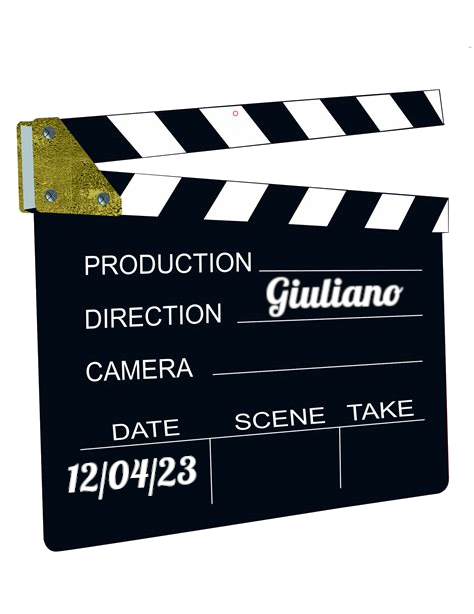
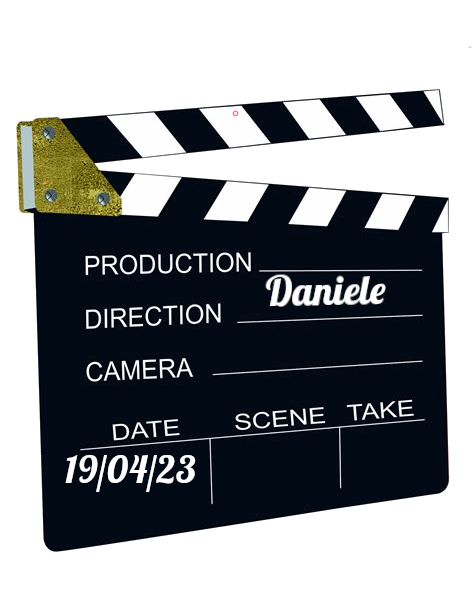
Chronicle - Stella cadente

Changed region(s): [[0.5612, 0.4332, 0.8565, 0.5261], [0.1181, 0.7427, 0.4135, 0.8355]]

diff --git a/index.html b/index.html
@@ -34,10 +34,10 @@
 
 <br /><br />
 
-<h1>Mercoled&igrave; 12 aprile 2023</h1>
+<h1>Mercoled&igrave; 19 aprile 2023</h1>
 <h2>Alle 20:30 in Via Nizza, 72</h2>
 <img src="img/ciak.png" class="locandina"/>
-<h2>Tema: <i>Stella cadente</i> - Selezionatore: <i>Giuliano</i></h2>
+<h2>Tema: <i>Triangolo</i> - Selezionatore: <i>Daniele</i></h2>
 
 <br /><br />
 
@@ -45,14 +45,14 @@
 
 <br /><br />
 
-<h1>Mercoled&igrave; 22 marzo 2023</h1>
+<h1>Mercoled&igrave; 12 aprile 2023</h1>
 <p class="mtitle">
-<a href="https://www.imdb.com/title/tt8893974" target="_blank">Passing</a>
+<a href="https://www.imdb.com/title/tt1706593" target="_blank">Chronicle</a>
 </p>
 
-<img src="https://image.tmdb.org/t/p/w500/kZaNZbqRzO5iTJjGwTojMLCFUEk.jpg" class="locandina"/>
+<img src="https://image.tmdb.org/t/p/w500/4LKSgyMns7B1fc5LVmLDvzhO9FT.jpg" class="locandina"/>
 
-<h2>Tema: <i>Stella cadente</i> - Selezionatrice: <i>Adriana</i></h2>
+<h2>Tema: <i>Stella cadente</i> - Selezionatore: <i>Giuliano</i></h2>
 <br /><br />
 
 <hr width="90%">

diff --git a/movieslist.html b/movieslist.html
@@ -29,7 +29,18 @@ Rassegnamoci, Cineforum a Programma Variabile - Elenco Film
   </thead>
   <tbody>
     <tr>
-      <td>22-03-2023</td>
+      <td>12-Apr-2023</td>
+      <td>Chronicle</td>
+      <td>Giuliano</td>
+      <td>Stella cadente</td>
+      <td>2012</td>
+      <td>Josh Trank</td>
+      <td>84</td>
+      <td>US</td>
+      <td><a href="https://www.imdb.com/title/tt1706593" target="_blank">https://www.imdb.com/title/tt1706593</a></td>
+    </tr>
+    <tr>
+      <td>22-Mar-2023</td>
       <td>Passing</td>
       <td>Adriana</td>
       <td>Stella cadente</td>
